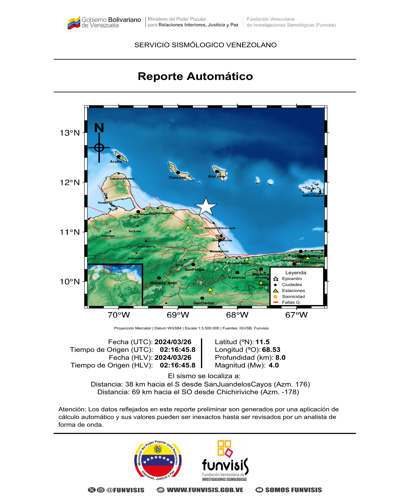
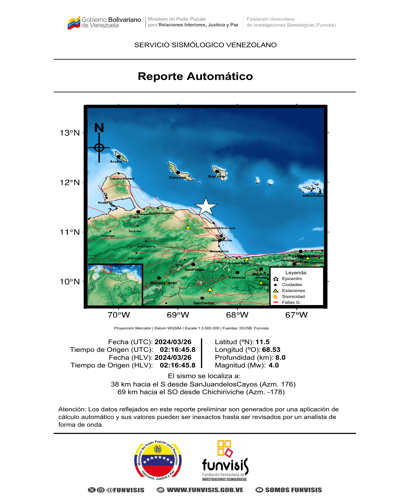
terminando Reporte

diff --git a/reporteAutomatico.py b/reporteAutomatico.py
@@ -114,8 +114,15 @@ def generar_reporte(args):
     c.line(407, 333, 414, 333)
 
     c.setStrokeColor(black)
+
+    c.setLineWidth(5)
+    c.line(127,665, 127, 322)
+    c.line(485,665, 485, 322)
+    c.line(127,663,485,663)
+    c.line(127,325,485,325)
     c.setFont("Helvetica", 6)
 
+    c.setLineWidth(2)
     c.drawString(170, h-505, "Proyección Mercator | Datum WGS84 | Escala 1:3.500.000 | Fuentes: IGVSB, Funvisis")
     #campos que me faltan por arg
     
@@ -144,8 +151,8 @@ def generar_reporte(args):
     c.drawString(320, h-569, "Magnitud (Mw): ")
     c.drawString(250, h-587, "El sismo se localiza a: ")
 
-    c.drawString(135, h-601, Localiza1)
-    c.drawString(145, h-614, Localiza2)
+    c.drawString(165, h-601, Localiza1)
+    c.drawString(175, h-614, Localiza2)
 
     c.setFont("Helvetica",10)
     c.drawString(87, h-643, "Atención: Los datos reflejados en este reporte preliminar son generados por una aplicación de")

diff --git a/Azimut.py b/Azimut.py
@@ -91,7 +91,7 @@ if __name__ == "__main__":
 
         azimut = calcular_azimut(lat_punto_fijo, lon_punto_fijo, lat, lon) 
 
-        resultado = f"Distancia: {round(distancia)} km hacia el {direccion} desde {nomCiu} (Azm. {round(azimut)})"
+        resultado = f"{round(distancia)} km hacia el {direccion} desde {nomCiu} (Azm. {round(azimut)})"
 
         resultados.append(resultado)
     
